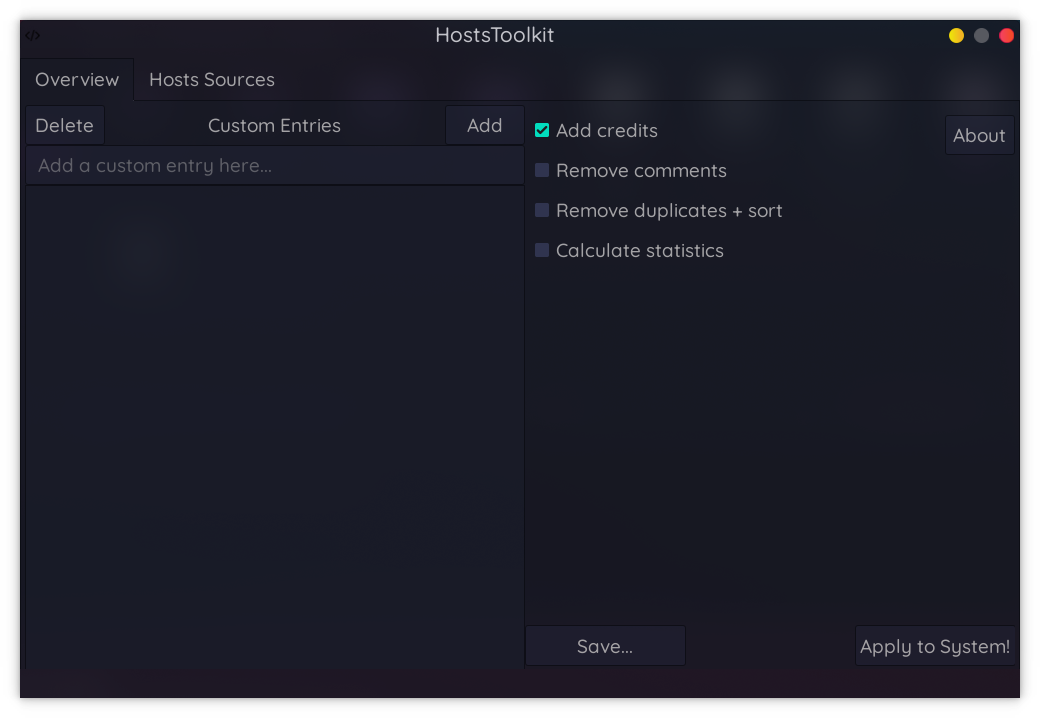
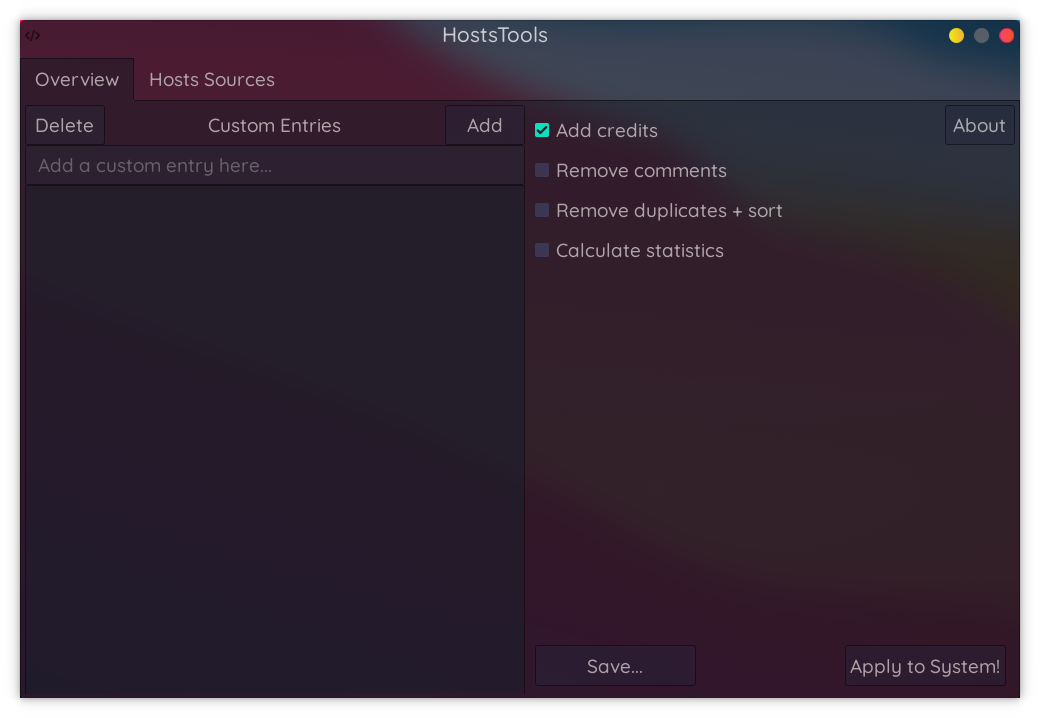
improved ui layout, fixed typos, fixed screenshots

diff --git a/HT_ru_RU.ts b/HT_ru_RU.ts
@@ -43,105 +43,106 @@ t.me/Nek_12
     <name>MainWindow</name>
     <message>
         <location filename="src/app.ui" line="35"/>
-        <location filename="build/HT_autogen/include/ui_app.h" line="238"/>
-        <source>HostsToolkit</source>
+        <location filename="build/HT_autogen/include/ui_app.h" line="233"/>
+        <source>HostsTools</source>
+        <oldsource>HostsToolkit</oldsource>
         <extracomment>Console</extracomment>
         <translation type="unfinished"></translation>
     </message>
     <message>
         <location filename="src/app.ui" line="63"/>
-        <location filename="build/HT_autogen/include/ui_app.h" line="252"/>
+        <location filename="build/HT_autogen/include/ui_app.h" line="247"/>
         <source>Overview</source>
         <translation type="unfinished"></translation>
     </message>
     <message>
         <location filename="src/app.ui" line="127"/>
-        <location filename="build/HT_autogen/include/ui_app.h" line="240"/>
+        <location filename="build/HT_autogen/include/ui_app.h" line="235"/>
         <source> Add a custom entry here...</source>
         <translation type="unfinished"></translation>
     </message>
     <message>
         <location filename="src/app.ui" line="220"/>
-        <location filename="build/HT_autogen/include/ui_app.h" line="246"/>
+        <location filename="build/HT_autogen/include/ui_app.h" line="241"/>
         <source>Add</source>
         <translation type="unfinished"></translation>
     </message>
     <message>
         <location filename="src/app.ui" line="336"/>
-        <location filename="build/HT_autogen/include/ui_app.h" line="251"/>
+        <location filename="build/HT_autogen/include/ui_app.h" line="246"/>
         <source>Calculate statistics</source>
         <translation type="unfinished"></translation>
     </message>
     <message>
         <location filename="src/app.ui" line="355"/>
-        <location filename="build/HT_autogen/include/ui_app.h" line="260"/>
+        <location filename="build/HT_autogen/include/ui_app.h" line="255"/>
         <source>Hosts Sources</source>
         <translation type="unfinished"></translation>
     </message>
     <message>
         <location filename="src/app.ui" line="389"/>
-        <location filename="build/HT_autogen/include/ui_app.h" line="253"/>
+        <location filename="build/HT_autogen/include/ui_app.h" line="248"/>
         <source>Browse...</source>
         <translation type="unfinished"></translation>
     </message>
     <message>
         <location filename="src/app.ui" line="402"/>
-        <location filename="build/HT_autogen/include/ui_app.h" line="254"/>
+        <location filename="build/HT_autogen/include/ui_app.h" line="249"/>
         <source>Files</source>
         <translation type="unfinished"></translation>
     </message>
     <message>
         <location filename="src/app.ui" line="441"/>
-        <location filename="build/HT_autogen/include/ui_app.h" line="256"/>
+        <location filename="build/HT_autogen/include/ui_app.h" line="251"/>
         <source>Network URLs</source>
         <translation type="unfinished"></translation>
     </message>
     <message>
         <location filename="src/app.ui" line="285"/>
-        <location filename="build/HT_autogen/include/ui_app.h" line="248"/>
+        <location filename="build/HT_autogen/include/ui_app.h" line="243"/>
         <source>Save...</source>
         <translation type="unfinished"></translation>
     </message>
     <message>
         <location filename="src/app.ui" line="476"/>
-        <location filename="build/HT_autogen/include/ui_app.h" line="258"/>
+        <location filename="build/HT_autogen/include/ui_app.h" line="253"/>
         <source>Add...</source>
         <translation type="unfinished"></translation>
     </message>
     <message>
         <location filename="src/app.ui" line="508"/>
-        <location filename="build/HT_autogen/include/ui_app.h" line="259"/>
+        <location filename="build/HT_autogen/include/ui_app.h" line="254"/>
         <source>Load system</source>
         <translation type="unfinished"></translation>
     </message>
     <message>
         <location filename="src/app.ui" line="159"/>
-        <location filename="build/HT_autogen/include/ui_app.h" line="242"/>
+        <location filename="build/HT_autogen/include/ui_app.h" line="237"/>
         <source>Remove duplicates + sort</source>
         <translation type="unfinished"></translation>
     </message>
     <message>
         <location filename="src/app.ui" line="172"/>
-        <location filename="build/HT_autogen/include/ui_app.h" line="243"/>
+        <location filename="build/HT_autogen/include/ui_app.h" line="238"/>
         <source>Add credits</source>
         <oldsource>Add credits and statistics</oldsource>
         <translation type="unfinished"></translation>
     </message>
     <message>
         <location filename="src/app.ui" line="201"/>
-        <location filename="build/HT_autogen/include/ui_app.h" line="245"/>
+        <location filename="build/HT_autogen/include/ui_app.h" line="240"/>
         <source>About</source>
         <translation type="unfinished"></translation>
     </message>
     <message>
         <location filename="src/app.ui" line="245"/>
-        <location filename="build/HT_autogen/include/ui_app.h" line="247"/>
+        <location filename="build/HT_autogen/include/ui_app.h" line="242"/>
         <source>Apply to System!</source>
         <translation type="unfinished"></translation>
     </message>
     <message>
         <location filename="src/app.ui" line="304"/>
-        <location filename="build/HT_autogen/include/ui_app.h" line="249"/>
+        <location filename="build/HT_autogen/include/ui_app.h" line="244"/>
         <source>Custom Entries</source>
         <translation type="unfinished"></translation>
     </message>
@@ -149,15 +150,15 @@ t.me/Nek_12
         <location filename="src/app.ui" line="188"/>
         <location filename="src/app.ui" line="418"/>
         <location filename="src/app.ui" line="457"/>
-        <location filename="build/HT_autogen/include/ui_app.h" line="244"/>
-        <location filename="build/HT_autogen/include/ui_app.h" line="255"/>
-        <location filename="build/HT_autogen/include/ui_app.h" line="257"/>
+        <location filename="build/HT_autogen/include/ui_app.h" line="239"/>
+        <location filename="build/HT_autogen/include/ui_app.h" line="250"/>
+        <location filename="build/HT_autogen/include/ui_app.h" line="252"/>
         <source>Delete</source>
         <translation type="unfinished"></translation>
     </message>
     <message>
         <location filename="src/app.ui" line="146"/>
-        <location filename="build/HT_autogen/include/ui_app.h" line="241"/>
+        <location filename="build/HT_autogen/include/ui_app.h" line="236"/>
         <source>Remove comments</source>
         <translation type="unfinished"></translation>
     </message>
